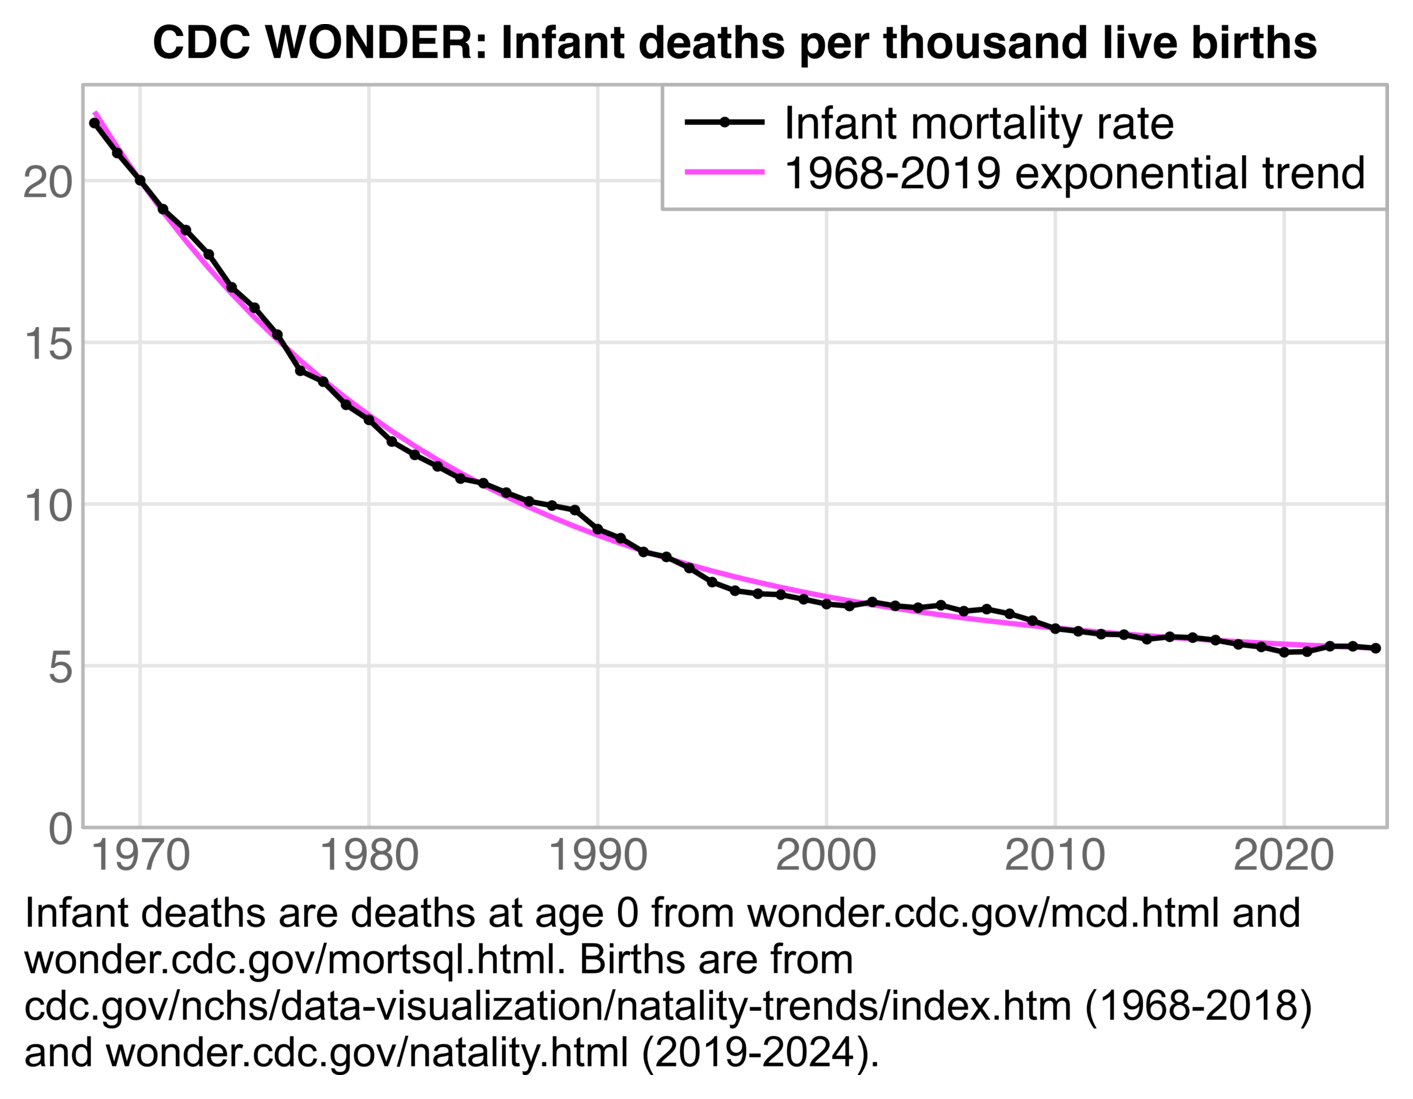
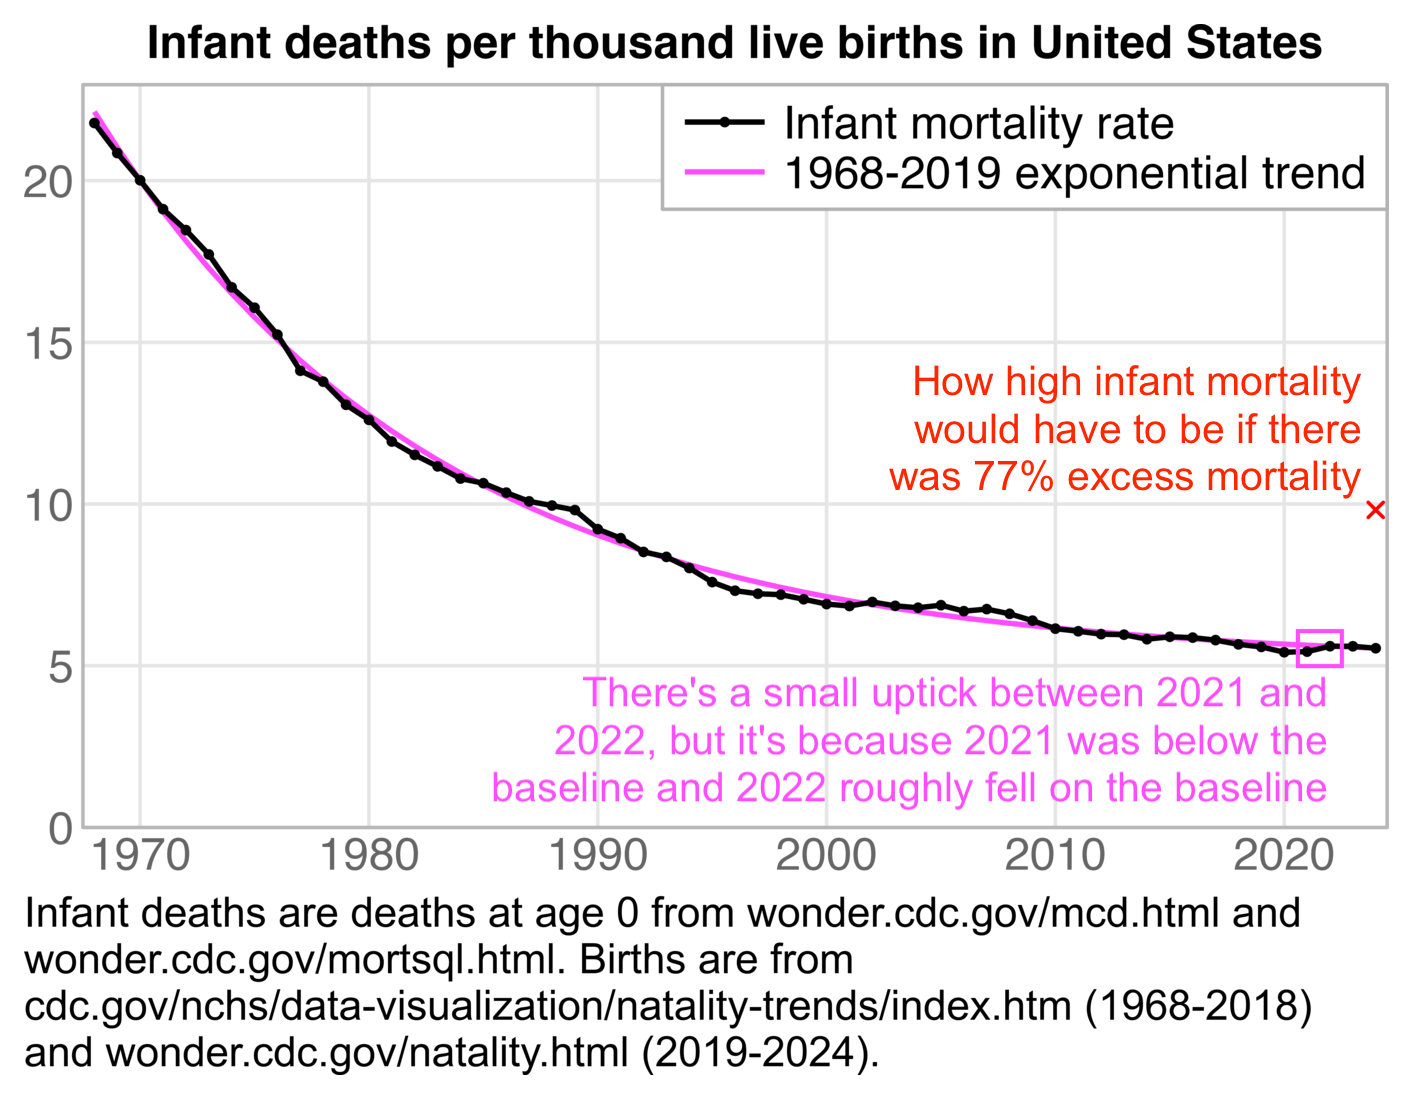
a

Changed region(s): [[0.3425, 0.5569, 0.9653, 0.7425], [0.0934, 0.0, 0.9342, 0.0619], [0.6228, 0.3403, 0.9653, 0.4641]]

diff --git a/clot2.html b/clot2.html
@@ -690,6 +690,17 @@ Sarah Westall
 </tr>
 <tr>
 <td>
+2020-04-04
+</td>
+<td>
+Addy Adds
+</td>
+<td>
+<a href=https://altcensored.com/watch?v=CCJvolVNR3w>#COVID19 Scientist Roundtable: Dr. Kevin McCairn Dr. Paul Cottrell Dr. JJ. Couey</a>
+</td>
+</tr>
+<tr>
+<td>
 2020-04-05
 </td>
 <td>
@@ -697,6 +708,50 @@ Stefan Molyneux
 </td>
 <td>
 <a href=https://www.bitchute.com/video/OkqYLKDWrVc>Coronavirus vs the Central Nervous System - Dr Kevin W McCairn, PhD and Stefan Molyneux</a>
+</td>
+</tr>
+<tr>
+<td>
+2020-04-11
+</td>
+<td>
+Addy Adds
+</td>
+<td>
+<a href=https://altcensored.com/watch?v=5Ot9tsxLKYY>#COVID19 Scientist Roundtable: Dr. Kevin McCairn Dr. Paul Cottrell Dr. JJ. Couey, Dr Robert Young</a>
+</td>
+</tr>
+<tr>
+<td>
+2020-04-18
+</td>
+<td>
+Addy Adds
+</td>
+<td>
+<a href=https://altcensored.com/watch?v=9uS_sIyk8LQ>#COVID19 Scientist Roundtable: Dr. Kevin McCairn Dr. JJ. Couey,</a>
+</td>
+</tr>
+<tr>
+<td>
+2020-04-20
+</td>
+<td>
+Addy Adds
+</td>
+<td>
+<a href=https://altcensored.com/watch?v=fCAGTLuNX1o>Live with Dr. Kevin Mccairn PhD - Kyoto University in Japan #COVID19 #corona</a>
+</td>
+</tr>
+<tr>
+<td>
+2020-04-25
+</td>
+<td>
+Addy Adds
+</td>
+<td>
+<a href=https://altcensored.com/watch?v=HgR5-UQm3kc>#COVID19 Scientist Roundtable: Dr. Kevin McCairn &amp; Dr. Paul Cottrell #roundtable #scientistpanel</a>
 </td>
 </tr>
 <tr>
@@ -748,7 +803,6 @@ Addy Adds
 <p>In February 2020 Paul Cottrell became known as <span class="quote">"the American whistleblower"</span> in China after one of his YouTube videos went viral in China. [<a href=https://www.baidu.com/s?wd=%22paul+cottrell%22&gpc=stf%3D1580508000%2C1583013600%7Cstftype%3D2>https://www.baidu.com/s?wd=%22paul+cottrell%22&amp;gpc=stf%3D1580508000%2C1583013600%7Cstftype%3D2</a>] In the video Cottrell said that a follower of his YouTube channel had contacted him on Facebook and sent him screenshots of text messages he received from someone at the CDC, who said that the CDC was hiding the true number of COVID cases in the United States. [<a href=https://www.bilibili.com/video/av91204053/>https://www.bilibili.com/video/av91204053/</a>] The screenshots looked fake because they showed the name of the sender as <span class="quote">"Nancy Messonnier (CDC)"</span>, even though they were screenshots of the Messages application on iOS which only displays the first name of the sender. [<a href=https://x.com/benplowman/status/1231447635338264576/>https://x.com/benplowman/status/1231447635338264576/</a>] The same screenshots had been published a few days earlier by the radio show host Hal Turner, who said that the text messages were not leaked by the person who received the text messages, but by his 18-year-old son who took the screenshots on his father's phone. [<a href=http://web.archive.org/web/20200217063226/https://halturnerradioshow.com/index.php/en/news-page/news-nation/alleged-c-d-c-text-messages-say-over-1-000-infected-with-coronavirus-in-u-s-a-being-deliberately-concealed>http://web.archive.org/web/20200217063226/https://halturnerradioshow.com/index.php/en/news-page/news-nation/alleged-c-d-c-text-messages-say-over-1-000-infected-with-coronavirus-in-u-s-a-being-deliberately-concealed</a>] When someone on a Chinese website asked if Paul Cottrell's video was legit, another user linked to Hal Turner's website and indicated that it supported Cottrell's story. [<a href=https://www.zhihu.com/question/373999679>https://www.zhihu.com/question/373999679</a>]</p>
 <p>Hal Turner worked as an FBI informant according to testimony in court by his lawyer and himself. [<a href=http://web.archive.org/web/20080118203302/http://www.recordonline.com/apps/pbcs.dll/article?AID=/20080117/NEWS/801170326/-1/NEWS>http://web.archive.org/web/20080118203302/http://www.recordonline.com/apps/pbcs.dll/article?AID=/20080117/NEWS/801170326/-1/NEWS</a>, <a href=https://archive.ph/soTD7#selection-505.0-512%2e0>https://archive.ph/soTD7#selection-505.0-512%2e0</a>] He even ran a Nazi rally for the FBI in New York. [<a href=https://x.com/HeadlineUSA/status/1807032673942020181>https://x.com/HeadlineUSA/status/1807032673942020181</a>] In 2008 Hal Turner was plotting a feigned sequel to the Oklahoma City bombing together with a patsy he was working with. [<a href=https://headlineusa.com/fed-files-iii-fbi-informants-phony-obama-truck-bomb-tip-spurred-federal-probe/>https://headlineusa.com/fed-files-iii-fbi-informants-phony-obama-truck-bomb-tip-spurred-federal-probe/</a>]</p>
 <p>In 2010 Hal Turner told the New York Times that he <span class="quote">"answered the call of the federal government to infiltrate the white supremacist movement"</span>, and he said that his racist persona was fake, and he told people to <span class="quote">"be confident that the person you hear on radio is not real life"</span>. [<a href=https://www.nytimes.com/2010/03/04/nyregion/04hal.html>https://www.nytimes.com/2010/03/04/nyregion/04hal.html</a>] Paul Cottrell and Kevin McCairn are both livestreamers, which is basically the modern-day equivalent of shock jocks on talk radio like Hal Turner. McCairn makes fun of Stew Peters, but McCairn occupies a similar niche as Stew, because they are both shock jocks who have combined coverage of COVID with antisemitic content. Stew Peters serves a purpose of making antisemites look ridiculous, but McCairn also makes antisemites look like some kind of juvenile memetic warriors, and his knowledge about the Jewish question is very superficial.</p>
-<p>A user on McCairn's Discord wrote <span class="quote">"Hal is making some changes thanks to Kevin's comment"</span>, and the user linked to a blog post where Hal Turner announced that he made his show shorter on Wednesdays and he was going to spend less time on taking calls from his listeners. [<a href=i/clot-hal-turner-changes.png>i/clot-hal-turner-changes.png</a>] When I asked why Kevin McCairn commented on Hal Turner's radio show, I didn't get an answer from either McCairn or the user on his Discord. Hal Turner also promotes the story about the calamari clots, and he even says that the clots are <span class="quote">"amyloid clots"</span>. [<a href=https://x.com/Hal_Turner_Show/status/1886947367527514460>https://x.com/Hal_Turner_Show/status/1886947367527514460</a>]</p>
 <p>Kevin McCairn is in his fifties, but he has positioned himself as a memetic warrior on the internet, and he and his followers make memes that include characters like Pepe the Frog and Wojak. Mike Benz used to have a fake white nationalist channel on YouTube called Frame Game Radio, which he said was part of a project by Jews to infiltrate the antisemitic movement. [<a href=https://x.com/MikeBenzCyber/status/1710479185028726943>https://x.com/MikeBenzCyber/status/1710479185028726943</a>] The Twitter account of his white nationalist persona reminded me of McCairn, because Benz's profile picture was a Wojak wearing a Pepe hoodie, and his bio said that he was a veteran of memetic wars and that he <span class="quote">"melded metals into memetic ammo"</span>. [<a href=https://web.archive.org/web/20170825221401/https://twitter.com/FrameGames>https://web.archive.org/web/20170825221401/https://twitter.com/FrameGames</a>] But both Benz and McCairn seem too old to be posting 4chan memes.</p>
 <p>To my knowledge Kevin McCairn has coauthored two scientific papers about COVID. One of them was a paper he wrote with Richard Fleming, where they described a stunt where they filmed blood under a microscope while they applied drops of a COVID vaccine on the blood. [<a href=https://medwinpublishers.com/article-description.php?artId=9730>https://medwinpublishers.com/article-description.php?artId=9730</a>] And the other paper was a review about COVID origins by several members of DRASTIC, who included Dan Sirotkin and J.J. Couey. [<a href=https://link.springer.com/article/10.1007/s10311-021-01211-0>https://link.springer.com/article/10.1007/s10311-021-01211-0</a>]</p>
 <p>I first found out about J.J. Couey because his YouTube channel was linked at the top of a blog post by Dan Sirotkin. [<a href=https://harvardtothebighouse.com/2020/01/31/logistical-and-technical-analysis-of-the-origins-of-the-wuhan-coronavirus-2019-ncov/>https://harvardtothebighouse.com/2020/01/31/logistical-and-technical-analysis-of-the-origins-of-the-wuhan-coronavirus-2019-ncov/</a>] Couey discussed the blog post in his first two YouTube videos about COVID. Dan Sirotkin describes himself as a <span class="quote">"former NSA counterterrorism analyst"</span>, and he went to college on an NSA scholarship, but as of 2024 he still lived in the DC area where the headquarters of various intelligence agencies are located. He is also a Jew like George Webb and Paul Cottrell. [<a href=https://x.com/Harvard2H/status/1425424404591284231>https://x.com/Harvard2H/status/1425424404591284231</a>, <a href=https://x.com/Harvard2H/status/1298767738811318272>https://x.com/Harvard2H/status/1298767738811318272</a>, <a href=https://x.com/Harvard2H/status/1603861877993476097>https://x.com/Harvard2H/status/1603861877993476097</a>] Couey tweeted: <span class="quote">"Before DRASTIC existed, there was an original duo...Dan and his dad. And then I found them, and we became three. DRASTIC was after this."</span> [<a href=https://x.com/jjcouey/status/1401262466978488320>https://x.com/jjcouey/status/1401262466978488320</a>] So Couey was basically the third member of proto-DRASTIC after Dan and Karl Sirotkin. I believe McCairn has never been an official member of DRASTIC, but for example the intro and outro videos for his streams have been done by FunctionGain, which is likely an alter ego of Billy Bostickson who founded DRASTIC. [<a href=https://x.com/KevinMcCairnPhD/status/1677539890370859009>https://x.com/KevinMcCairnPhD/status/1677539890370859009</a>, <a href=https://x.com/BillyBostickson/status/1653490934372528129>https://x.com/BillyBostickson/status/1653490934372528129</a>, <a href=https://drasticresearch.org/drastic-tv/>https://drasticresearch.org/drastic-tv/</a>, <a href=https://www.youtube.com/watch?v=yfG4X-vV5XU>https://www.youtube.com/watch?v=yfG4X-vV5XU</a>]</p>

diff --git a/ethical3.html b/ethical3.html
@@ -372,7 +372,7 @@ print(o,r=F)
 # 2022 21572       251
 # 2023 21220       108
 # 2024 21021        95</pre>
-<p>About 80% of all deaths in ages 0-5 occur at age 0. Relative to the pre-COVID linear trend, there was a low number of births in 2020 but there has been a high number of births since 2022, which might partially explain why ages 0-5 had low deaths in 2020 but relatively high deaths since 2022:</p>
+<p>In recent years in the United States, about 80% of all deaths in ages 0-5 have occurred at age 0, so Ethical Skeptic's plot mainly showed infant mortality, but the number of infant deaths depends on the number of births. Relative to the 2016-2019 linear trend, there was a low number of births in 2020 but there has been a high number of births since 2022, which might partially explain why ages 0-5 had low deaths in 2020 but relatively high deaths since 2022:</p>
 <div>
 <img src=i/ethical-natalitynew.png width=600>
 </div>
@@ -380,28 +380,28 @@ print(o,r=F)
 <button>
 Show code
 </button>
-<pre>t=fread(&quot;https://sars2.net/f/wondernatality.csv&quot;)
-t$date=as.Date(paste0(t$year,&quot;-&quot;,t$month,&quot;-16&quot;))
-t$born=t$born/lubridate::days_in_month(t$date)
+<pre>leg=c(&quot;Births&quot;,&quot;2018-2020 linear trend&quot;)
+t=fread(&quot;https://sars2.net/f/wondernatality.csv&quot;)
+t[,date:=as.Date(paste0(year,&quot;-&quot;,month,&quot;-16&quot;))]
+t[,born:=born/lubridate::days_in_month(date)]
 
 xstart=as.Date(&quot;2016-1-1&quot;);xend=as.Date(&quot;2026-1-1&quot;)
 xbreak=seq(xstart,xend,&quot;6 month&quot;)
 xlab=c(rbind(NA,2016:2025),NA)
-t=t[t$date&gt;=xstart&amp;t$date&lt;xend,]
-ylim=extendrange(c(t$born,t$trend))
+t=t[t$date&gt;=xstart&amp;t$date&lt;xend]
+ylim=extendrange(c(t$born,t$trend),,c(.1,.05))
 ybreak=pretty(t$born)
 
-t$trend=predict(lm(born~date,subset(t,date&gt;=xstart&amp;date&lt;as.Date(&quot;2020-1-1&quot;))),t)
+t$trend=predict(lm(born~date,t[year(date)%in%2016:2019]),t)
 
-yearly=aggregate(t[,c(&quot;born&quot;,&quot;trend&quot;)],t[,1,drop=F],sum)
-yearly=sprintf(&quot;%.1f%%&quot;,(yearly$born/yearly$trend-1)*100)
+yearly=t[,sprintf(&quot;%.1f%%&quot;,(sum(born)/sum(trend)-1)*100),year]$V1
 
 png(&quot;1.png&quot;,1825,1100,res=300)
 par(mar=c(4.2,3,2.1,.8),mgp=c(0,.6,0),adj=0,lend=&quot;square&quot;)
 
 tit=&quot;CDC WONDER: monthly births divided by number of days in month&quot;
 sub=&quot;Source: wonder.cdc.gov/natality.html. The gray numbers show the yearly
-excess percent relative to the baseline.&quot;
+excess percent of births relative to the baseline.&quot;
 leg=c(&quot;Births&quot;,&quot;2016-2019 linear trend&quot;)
 
 plot(t$date,t$born,type=&quot;n&quot;,main=tit,xlab=NA,ylab=NA,xaxs=&quot;i&quot;,yaxs=&quot;i&quot;,yaxt=&quot;n&quot;,xaxt=&quot;n&quot;,ylim=ylim,xlim=c(xstart,xend),cex.main=1)
@@ -416,6 +416,10 @@ rect(xstart,ylim[1],xend,ylim[2])
 mtext(text=sub,side=1,line=2.7,adj=0)
 legend(&quot;topright&quot;,legend=leg,lty=c(1,2),lwd=1.5)
 dev.off()</pre>
+</div>
+<p>A 2018-2020 linear trend for births was even steeper, so it gave me about 8% excess births in 2024:</p>
+<div>
+<img src=i/ethical-natalitynew-2.png width=600>
 </div>
 <p>However ES said that the baseline in his vaccinial plot was fitted against 2018 and 2019 only, and it didn't include 2020: [<a href=https://x.com/EthicalSkeptic/status/1950916264928358512>https://x.com/EthicalSkeptic/status/1950916264928358512</a>]</p>
 <div>
@@ -1116,6 +1120,7 @@ theme(axis.text=element_text(size=11,color=&quot;gray40&quot;,margin=margin(2,2,
   plot.title=element_text(size=11,hjust=.5,face=&quot;bold&quot;,margin=margin(,,4)))
 ggsave(&quot;1.png&quot;,width=4.7,height=3,dpi=300*4)</pre>
 </div>
+<p>Ethical Skeptic's plot only goes back to 2018, so it's hard to tell if the increase between 2021 and 2022 was because there was low mortality in 2021 but normal mortality in 2022, or because there was normal mortality in 2021 but high mortality in 2022, or because there was high mortality in 2021 but even higher mortality in 2022. It's one of many reasons why he should plot data going back further than 2018.</p>
 <hr />
 <p>Here among women aged 15-49, the percentage increase in drug overdose deaths between 2018 and 2023 was about 166% in American Indians, 144% in blacks, 87% in Hispanics, 50% in Asians and Pacific Islanders, and 16% in whites:</p>
 <div>
@@ -1319,6 +1324,78 @@ theme(axis.text=element_text(size=11,color=&quot;gray45&quot;),
   panel.grid.major=element_line(linewidth=.4,color=&quot;gray90&quot;),
   plot.title=element_text(size=11,hjust=1,face=2,margin=margin(,,4)))
 ggsave(&quot;1.png&quot;,width=5.5,height=3.3,dpi=300*4)</pre>
+</div>
+<p>Kevin McCairn told me that I should use a negative binomial GAM instead of a linear baseline in my plots: [<a href=https://x.com/KevinMcCairnPhD/status/1960826535629423073>https://x.com/KevinMcCairnPhD/status/1960826535629423073</a>]</p>
+<div>
+<img src=i/ethical-mccairn-gam.png width=550>
+</div>
+<p>In the next plot I used the <code>mgcv::gam</code> function to fit a negative binomial general additive model to the infant mortality rate before 2020. In December 2024 which was a moving average for the entire year of 2024, I got about 4% excess infant deaths in females and -5% in males:</p>
+<div>
+<img src=i/ethical-mccairn-gam-2.png width=550>
+</div>
+<div class="spoiler">
+<button>
+Show code
+</button>
+<pre>library(mgcv)
+
+t=fread(&quot;https://sars2.net/f/wonderinfantsexmonthly.csv&quot;)
+
+t=t[,.(x=rleid(year,month),year,month,dead=ma(dead,11,0),born=ma(born,11,0)),sex]
+
+lm=t[,.(x,base=as.double(predict(gam(dead~s(x,k=4)+offset(log(born)),nb(),.SD[year&lt;2020],method=&quot;REML&quot;),.SD,type=&quot;response&quot;))),sex]
+t=merge(t,lm)
+
+p=t[,.(sex,x=as.Date(paste(year,month,16,sep=&quot;-&quot;)),y=c(dead,born,c(dead,base)/born*1e3),z=rep(1:2,.N*c(3,1)),facet=rep(c(1:3,3),each=.N))]
+
+p[,facet:=factor(facet,,c(&quot;Infant deaths&quot;,&quot;Live births&quot;,&quot;Infant deaths per 1,000 live births&quot;))]
+p[,z:=factor(z,,c(&quot;Actual&quot;,&quot;2004-2019 negative binomial additive model&quot;))]
+p[,sex:=factor(sex,c(&quot;M&quot;,&quot;F&quot;),c(&quot;Male&quot;,&quot;Female&quot;))]
+
+xstart=as.Date(&quot;2004-1-1&quot;);xend=as.Date(&quot;2025-1-1&quot;);xbreak=seq(xstart+182,xend,&quot;year&quot;)
+p=p[x&lt;=xend]
+ylim=p[,{x=extendrange(y);.(min=x[1],max=x[2])},facet]
+
+ggplot(p)+
+facet_wrap(~facet,ncol=1,dir=&quot;v&quot;,scales=&quot;free_y&quot;)+
+geom_vline(xintercept=seq(xstart,xend,&quot;year&quot;),color=&quot;gray90&quot;,linewidth=.4)+
+geom_segment(data=ylim[3,.(facet,x=as.Date(&quot;2020-1-1&quot;),min,max)],aes(x,min,xend=x,yend=max),linewidth=.4,linetype=&quot;22&quot;)+
+geom_rect(data=ylim,aes(ymin=min,ymax=max),xmin=xstart,xmax=xend,lineend=&quot;square&quot;,linejoin=&quot;mitre&quot;,fill=NA,color=&quot;gray75&quot;,linewidth=.4)+
+geom_line(aes(x,y,color=sex,linetype=z),linewidth=.6)+
+geom_label(data=ylim,aes(xend,max,label=facet),vjust=1,hjust=1,label.r=unit(0,&quot;pt&quot;),label.padding=unit(5,&quot;pt&quot;),label.size=.4,size=3.87,fill=&quot;white&quot;,color=&quot;gray80&quot;)+
+geom_label(data=ylim,aes(xend,max,label=facet),vjust=1,hjust=1,label.r=unit(0,&quot;pt&quot;),label.padding=unit(5,&quot;pt&quot;),label.size=0,size=3.87,fill=NA)+
+labs(title=&quot;Infant mortality (12-month backwards moving average)&quot;,x=NULL,y=NULL)+
+scale_x_continuous(limits=c(xstart,xend),breaks=xbreak,labels=year(xbreak))+
+scale_y_continuous(breaks=\(x)pretty(x,4),labels=kim)+
+scale_color_manual(values=hsv(c(22,0)/36,.5,1))+
+scale_linetype_manual(values=c(&quot;solid&quot;,&quot;11&quot;))+
+coord_cartesian(clip=&quot;off&quot;,expand=F)+
+guides(color=guide_legend(order=1),linetype=guide_legend(order=2))+
+theme(axis.text=element_text(size=11,color=&quot;gray40&quot;,margin=margin(2,2,2,2)),
+  axis.text.x=element_text(angle=90,vjust=.5,hjust=1),
+  axis.ticks=element_line(linewidth=.4,color=&quot;gray75&quot;),
+  axis.ticks.length.x=unit(0,&quot;pt&quot;),
+  axis.ticks.length.y=unit(4,&quot;pt&quot;),
+  legend.background=element_rect(color=&quot;gray75&quot;,linewidth=.4),
+  legend.box=&quot;vertical&quot;,
+  legend.box.margin=margin(,,3),
+  legend.box.spacing=unit(0,&quot;pt&quot;),
+  legend.key=element_blank(),
+  legend.key.height=unit(12,&quot;pt&quot;),
+  legend.key.width=unit(24,&quot;pt&quot;),
+  legend.margin=margin(3,5,3,3),
+  legend.position=&quot;top&quot;,
+  legend.spacing.x=unit(2,&quot;pt&quot;),
+  legend.spacing.y=unit(0,&quot;pt&quot;),
+  legend.text=element_text(size=11),
+  legend.title=element_blank(),
+  panel.background=element_blank(),
+  panel.grid=element_blank(),
+  panel.spacing=unit(3,&quot;pt&quot;),
+  plot.title=element_text(size=11,hjust=.5,face=&quot;bold&quot;,margin=margin(1,,4)),
+  strip.background=element_blank(),
+  strip.text=element_blank())
+ggsave(&quot;1.png&quot;,width=4.86,height=3.6,dpi=300*4)</pre>
 </div>
 <hr />
 <p>A lot of the extra infant deaths in 2022-2024 seem to have viral diseases or respiratory conditions as the underlying cause:</p>
